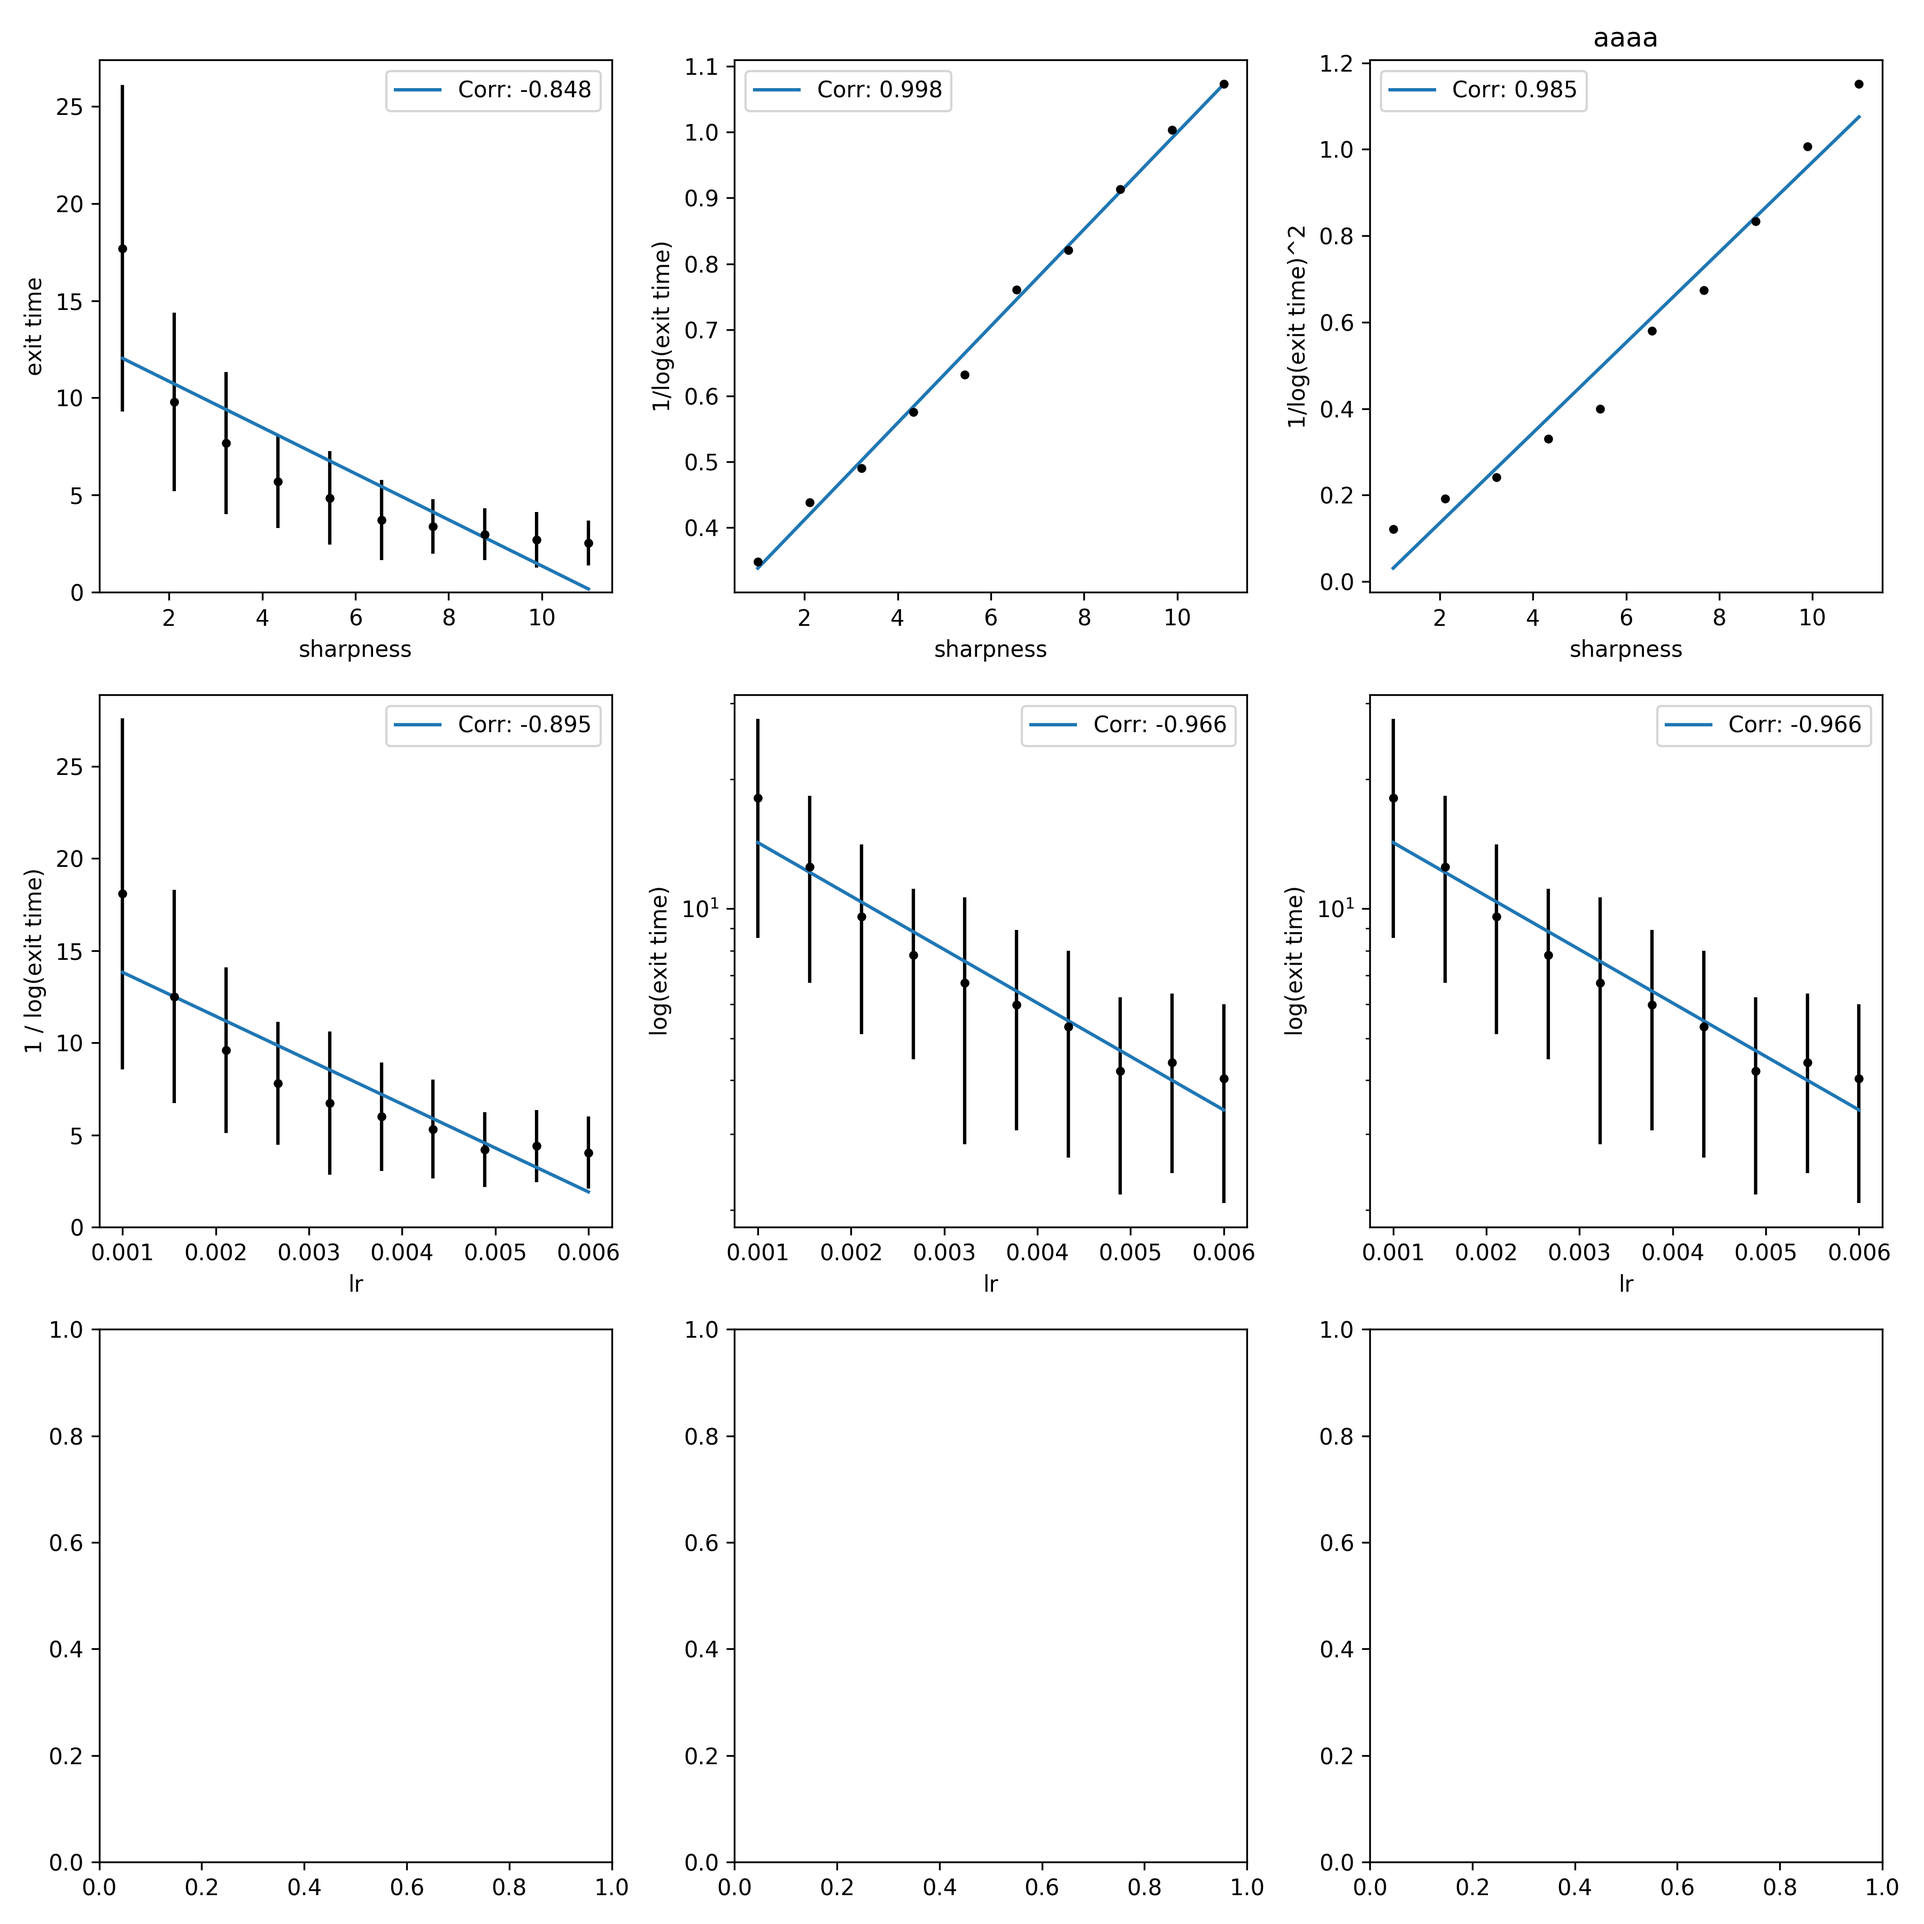
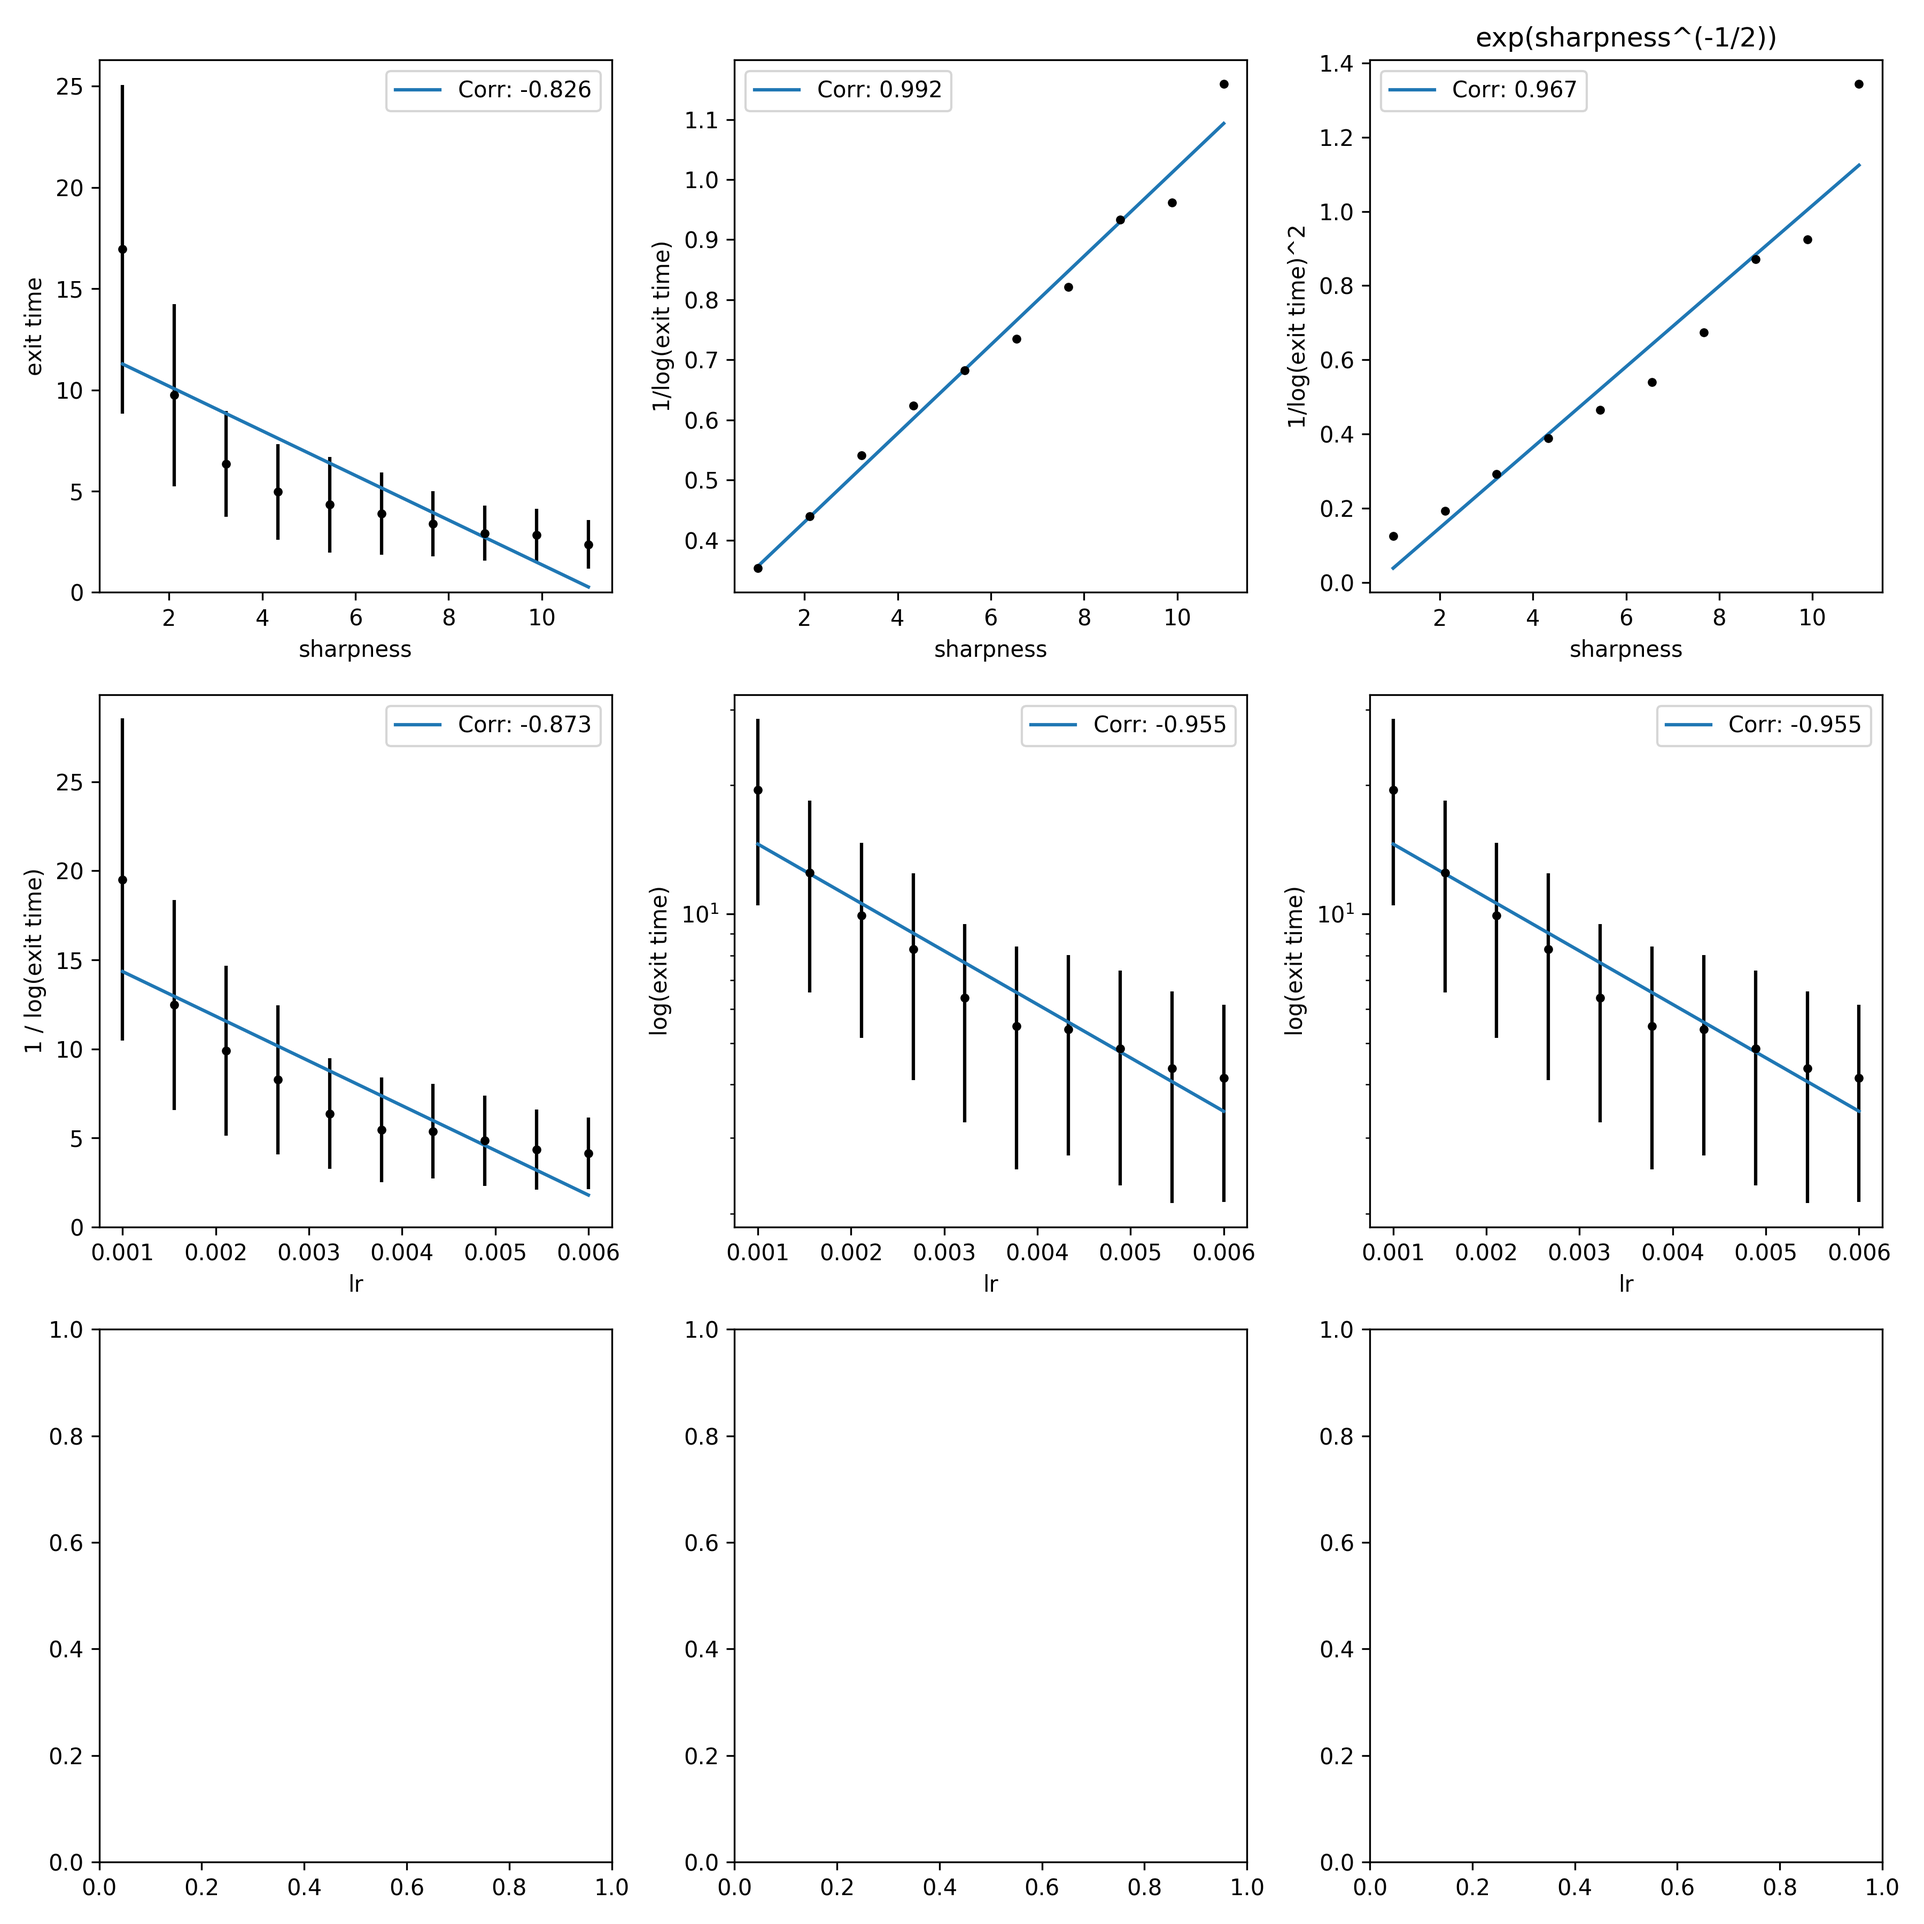
update

diff --git a/exit_time.py b/exit_time.py
@@ -175,6 +175,7 @@ def draw(sharpness_results, lr_results, batch_size_results):
     ax1[1].errorbar(x_2, y_2, yerr=std*0, fmt='.k') 
     ax1[1].plot(x_2, m_2*x_2 + c_2)
     ax1[1].legend([f'Corr: {coeff_2:.3g}'])
+    ax1[2].set_title(f'exp(sharpness^(-1))')
     # # Log quad
     x_3 = x
     y_3 = 1/(np.log(y)**2)
@@ -186,7 +187,7 @@ def draw(sharpness_results, lr_results, batch_size_results):
     ax1[2].errorbar(x_3, y_3, yerr=std*0, fmt='.k') 
     ax1[2].plot(x_3, m_3*x_3 + c_3)
     ax1[2].legend([f'Corr: {coeff_3:.3g}'])
-    ax1[2].set_title(f'aaaa')
+    ax1[2].set_title(f'exp(sharpness^(-1/2))')
     # Learning rate
     draw_subfig(ax2, *lr_results, "lr")
     # Learning rate
